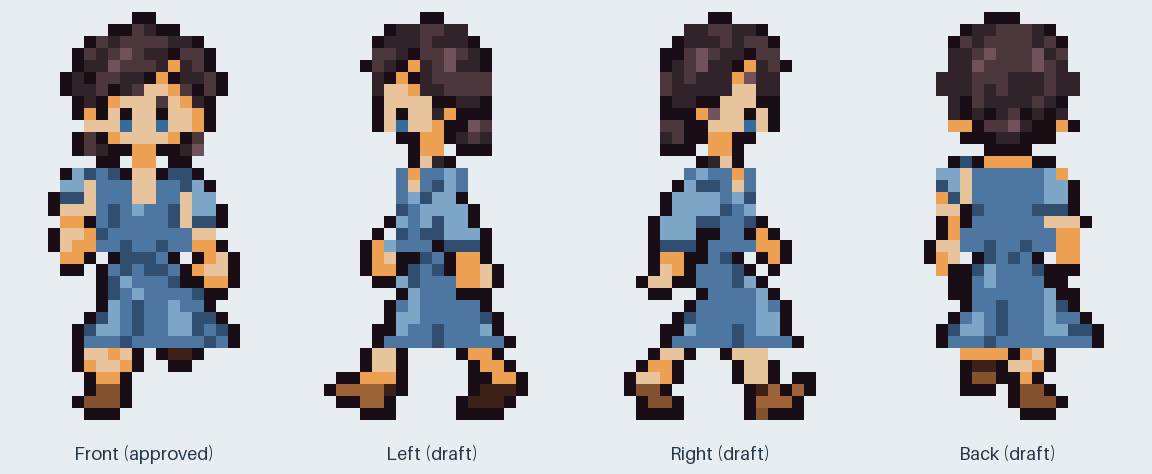
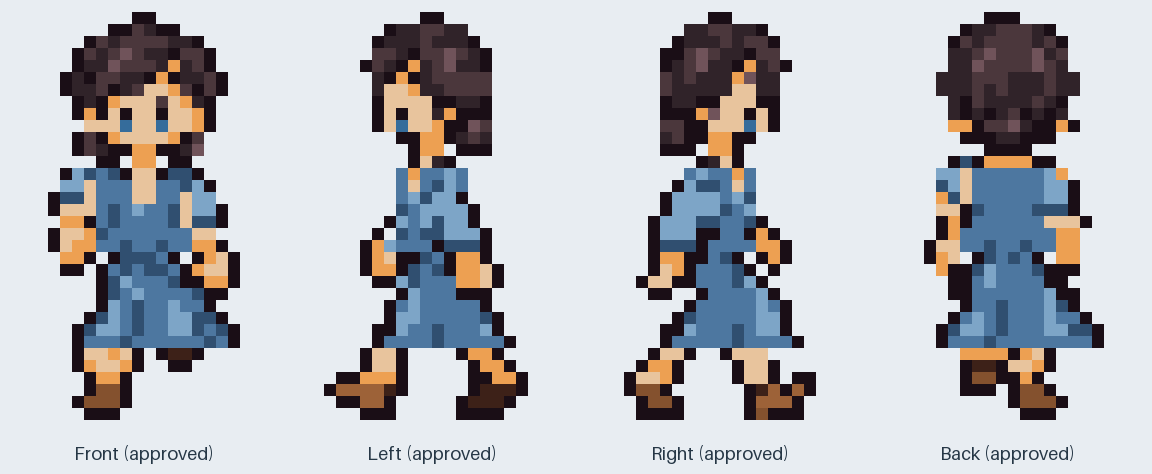
Record approval of all blue female NPC walking cycles

Changed region(s): [[0.8125, 0.9451, 0.9375, 0.9747], [0.5625, 0.9451, 0.6875, 0.9747], [0.3125, 0.9451, 0.4375, 0.9747]]

diff --git a/README.md b/README.md
@@ -40,7 +40,7 @@ The base male NPC's [left](assets/characters/npcs/male_01/walk_left/README.md), 
 
 The rust/charcoal and slate/brown left, right and back walks are approved. The [complete synchronized grid](assets/characters/npcs/male_walk_all_variants_review.gif) shows directions as rows and palettes as columns. Enlarged comparisons are also available for [left](assets/characters/npcs/male_walk_left_variants_review.gif), [right](assets/characters/npcs/male_walk_right_variants_review.gif) and [back](assets/characters/npcs/male_walk_back_variants_review.gif). All twelve male NPC walking cycles are approved.
 
-The first [female NPC front idle](assets/characters/npcs/female_01/README.md) is approved: dark hair in a low bun, a blue calf-length dress with short sleeves and brown ankle boots, at the same 24×36 scale. The [enlarged preview](assets/characters/npcs/female_01/idle_front_review.png) and [scale comparison](assets/characters/npcs/female_01/scale_comparison.png) show the approved design. All four directional idles and the blue base front walk are approved; the other three blue base walking cycles are drafts for review.
+The first [female NPC front idle](assets/characters/npcs/female_01/README.md) is approved: dark hair in a low bun, a blue calf-length dress with short sleeves and brown ankle boots, at the same 24×36 scale. The [enlarged preview](assets/characters/npcs/female_01/idle_front_review.png) and [scale comparison](assets/characters/npcs/female_01/scale_comparison.png) show the approved design. All four directional idles and all four blue base walking cycles are approved.
 
 All three female front-idle palettes are approved: dark hair/blue dress/blue eyes, auburn hair/sage dress/green eyes and blonde hair/plum dress/hazel eyes. The [enlarged comparison](assets/characters/npcs/female_variants_review.png) shows the same silhouette across all three; [eye close-ups](assets/characters/npcs/female_eyes_review.png) show the pupil and iris differences.
 
@@ -48,4 +48,4 @@ The [female directional review](assets/characters/npcs/female_idle_directions_re
 
 The blue base female NPC has an approved [four-frame front walk](assets/characters/npcs/female_01/walk_front/README.md), using the shared stride and coordinated bob with dedicated dress poses. The [20× looping preview](assets/characters/npcs/female_01/walk_front/walk_front_preview.gif) shows the one-pixel skirt sway, passing hem lift and visible ankle boots. This cycle is approved; palette variants and other walking directions will use its timing and dress motion.
 
-The blue female NPC now has draft [left](assets/characters/npcs/female_01/walk_left/README.md), [right](assets/characters/npcs/female_01/walk_right/README.md) and [back](assets/characters/npcs/female_01/walk_back/README.md) walks. The [four-direction looping preview](assets/characters/npcs/female_01/walk_directions_review.gif) includes the approved front cycle for comparison. New cycles preserve the bun, profile eye, coordinated bob, dress hem motion and visible ankle boots.
+The blue female NPC has approved [left](assets/characters/npcs/female_01/walk_left/README.md), [right](assets/characters/npcs/female_01/walk_right/README.md) and [back](assets/characters/npcs/female_01/walk_back/README.md) walks. The [four-direction looping preview](assets/characters/npcs/female_01/walk_directions_review.gif) includes the approved front cycle for comparison. All four cycles are approved and preserve the bun, profile eye, coordinated bob, dress hem motion and visible ankle boots.

diff --git a/assets/characters/npcs/female_01/README.md b/assets/characters/npcs/female_01/README.md
@@ -18,7 +18,7 @@ Status: all four directional idles and this palette approved by the user in chat
 
 The source also retains four appearance layers: head, bodice/arms, skirt/hands, and calves/boots. They reconstruct the native idle and are not yet articulated walking components. The dress hem is at row 28, with visible calves at rows 29–31 and ankle boots at rows 32–34.
 
-The generated appearance source and repeatable export are retained under `../../../source/characters/npcs/female_01/`. All three front-facing palettes are approved. Left, right and back idles are approved; the front walk is approved, and left, right and back walks are drafts for review. Each walking direction uses dedicated skirt poses.
+The generated appearance source and repeatable export are retained under `../../../source/characters/npcs/female_01/`. All three front-facing palettes are approved. Left, right and back idles are approved; all four walking cycles are approved. Each walking direction uses dedicated skirt poses.
 
 Compare all three front palettes in `../female_variants_review.png`: dark hair/blue dress/blue eyes, auburn hair/sage dress/green eyes, and blonde hair/plum dress/hazel eyes. The close-up `../female_eyes_review.png` shows both pupils and iris accents at 32× scale. The base design is unchanged apart from the two requested colored iris pixels.
 
@@ -30,4 +30,4 @@ Compare all three front palettes in `../female_variants_review.png`: dark hair/b
 
 The [approved front walk](walk_front/README.md) uses shared stride poses, coordinated head-and-shoulder bob, and dedicated skirt/calf/ankle-boot parts. Review the enlarged loop in `walk_front/walk_front_preview.gif`.
 
-The [left](walk_left/README.md), [right](walk_right/README.md) and [back](walk_back/README.md) walks are drafts. `walk_directions_review.gif` compares all four base directions, with the approved front walk unchanged. Build them and the combined sheets with `python tools/build_dress_walk.py --direction all`.
+The [left](walk_left/README.md), [right](walk_right/README.md) and [back](walk_back/README.md) walks are approved. `walk_directions_review.gif` compares all four base directions, with the approved front walk unchanged. Build them and the combined sheets with `python tools/build_dress_walk.py --direction all`.

diff --git a/assets/characters/npcs/female_01/walk_right/README.md b/assets/characters/npcs/female_01/walk_right/README.md
@@ -1,6 +1,6 @@
 # Female NPC 01 — right walk
 
-Status: draft for user review. The front walk and all directional idles remain approved.
+Status: approved by the user in chat. The front walk and all directional idles remain approved.
 
 Four 24×36 frames use the shared right stride at 140 ms per frame, looping in 560 ms with foot anchor `[12, 34]`. The head retains one blue iris and the approved profile bun. The head, neck, shoulders and upper bodice rise together by one pixel on passing frames 02/04. Profile arm masks exclude the shared character's neck pixels, and the approved neckline is restored above the arms before compositing the head. All motion offsets are baked into the frame pixels.
 
@@ -14,4 +14,4 @@ Dedicated blue-dress poses keep a fixed waist, a one-pixel lower-skirt sway on c
 - `shared_motion_comparison.gif`: synchronized 12× Caelan/NPC comparison.
 - `recipe.json`: approved idle/palette references, shared template and authored costume poses.
 
-Rebuild from the repository root with `python tools/build_dress_walk.py --direction right`. Use `--direction all` to rebuild all base directions and `../walk_directions_review.gif`. New directions stay drafts until user approval; palette walk variants are later work.
+Rebuild from the repository root with `python tools/build_dress_walk.py --direction right`. Use `--direction all` to rebuild all base directions and `../walk_directions_review.gif`. All four blue base directions are approved; palette walk variants are the next planned work.

diff --git a/assets/characters/npcs/female_01/walk_left/README.md b/assets/characters/npcs/female_01/walk_left/README.md
@@ -1,6 +1,6 @@
 # Female NPC 01 — left walk
 
-Status: draft for user review. The front walk and all directional idles remain approved.
+Status: approved by the user in chat. The front walk and all directional idles remain approved.
 
 Four 24×36 frames use the shared left stride at 140 ms per frame, looping in 560 ms with foot anchor `[12, 34]`. The head retains one blue iris and the approved profile bun. The head, neck, shoulders and upper bodice rise together by one pixel on passing frames 02/04. Profile arm masks exclude the shared character's neck pixels, and the approved neckline is restored above the arms before compositing the head. All motion offsets are baked into the frame pixels.
 
@@ -14,4 +14,4 @@ Dedicated blue-dress poses keep a fixed waist, a one-pixel lower-skirt sway on c
 - `shared_motion_comparison.gif`: synchronized 12× Caelan/NPC comparison.
 - `recipe.json`: approved idle/palette references, shared template and authored costume poses.
 
-Rebuild from the repository root with `python tools/build_dress_walk.py --direction left`. Use `--direction all` to rebuild all base directions and `../walk_directions_review.gif`. New directions stay drafts until user approval; palette walk variants are later work.
+Rebuild from the repository root with `python tools/build_dress_walk.py --direction left`. Use `--direction all` to rebuild all base directions and `../walk_directions_review.gif`. All four blue base directions are approved; palette walk variants are the next planned work.

diff --git a/assets/characters/npcs/female_01/walk_back/README.md b/assets/characters/npcs/female_01/walk_back/README.md
@@ -1,6 +1,6 @@
 # Female NPC 01 — back walk
 
-Status: draft for user review. The front walk and all directional idles remain approved.
+Status: approved by the user in chat. The front walk and all directional idles remain approved.
 
 Four 24×36 frames use the shared back stride at 140 ms per frame, looping in 560 ms with foot anchor `[12, 34]`. The head retains the centered low bun and no visible eyes. The head, neck, shoulders and upper bodice rise together by one pixel on passing frames 02/04. All motion offsets are baked into the frame pixels.
 
@@ -14,4 +14,4 @@ Dedicated blue-dress poses keep a fixed waist, a one-pixel lower-skirt sway on c
 - `shared_motion_comparison.gif`: synchronized 12× Caelan/NPC comparison.
 - `recipe.json`: approved idle/palette references, shared template and authored costume poses.
 
-Rebuild from the repository root with `python tools/build_dress_walk.py --direction back`. Use `--direction all` to rebuild all base directions and `../walk_directions_review.gif`. New directions stay drafts until user approval; palette walk variants are later work.
+Rebuild from the repository root with `python tools/build_dress_walk.py --direction back`. Use `--direction all` to rebuild all base directions and `../walk_directions_review.gif`. All four blue base directions are approved; palette walk variants are the next planned work.

diff --git a/assets/source/characters/npcs/female_01/walk_right/README.md b/assets/source/characters/npcs/female_01/walk_right/README.md
@@ -1,6 +1,6 @@
 # Female NPC 01 — right-walk assembly
 
-Status: draft for review.
+Status: approved by the user in chat.
 
 Rebuild with `python tools/build_dress_walk.py --direction right`. The appearance comes from the approved `idle_right.png`; stride silhouettes, arm poses, timing and bob come from the shared right template. The character recipe contains explicit skirt rows, leg split columns and ankle-boot tops for each phase.
 

diff --git a/assets/source/characters/npcs/female_01/walk_back/README.md b/assets/source/characters/npcs/female_01/walk_back/README.md
@@ -1,6 +1,6 @@
 # Female NPC 01 — back-walk assembly
 
-Status: draft for review.
+Status: approved by the user in chat.
 
 Rebuild with `python tools/build_dress_walk.py --direction back`. The appearance comes from the approved `idle_back.png`; stride silhouettes, arm poses, timing and bob come from the shared back template. The character recipe contains explicit skirt rows, leg split columns and ankle-boot tops for each phase.
 

diff --git a/assets/source/characters/npcs/female_01/walk_left/README.md b/assets/source/characters/npcs/female_01/walk_left/README.md
@@ -1,6 +1,6 @@
 # Female NPC 01 — left-walk assembly
 
-Status: draft for review.
+Status: approved by the user in chat.
 
 Rebuild with `python tools/build_dress_walk.py --direction left`. The appearance comes from the approved `idle_left.png`; stride silhouettes, arm poses, timing and bob come from the shared left template. The character recipe contains explicit skirt rows, leg split columns and ankle-boot tops for each phase.
 
